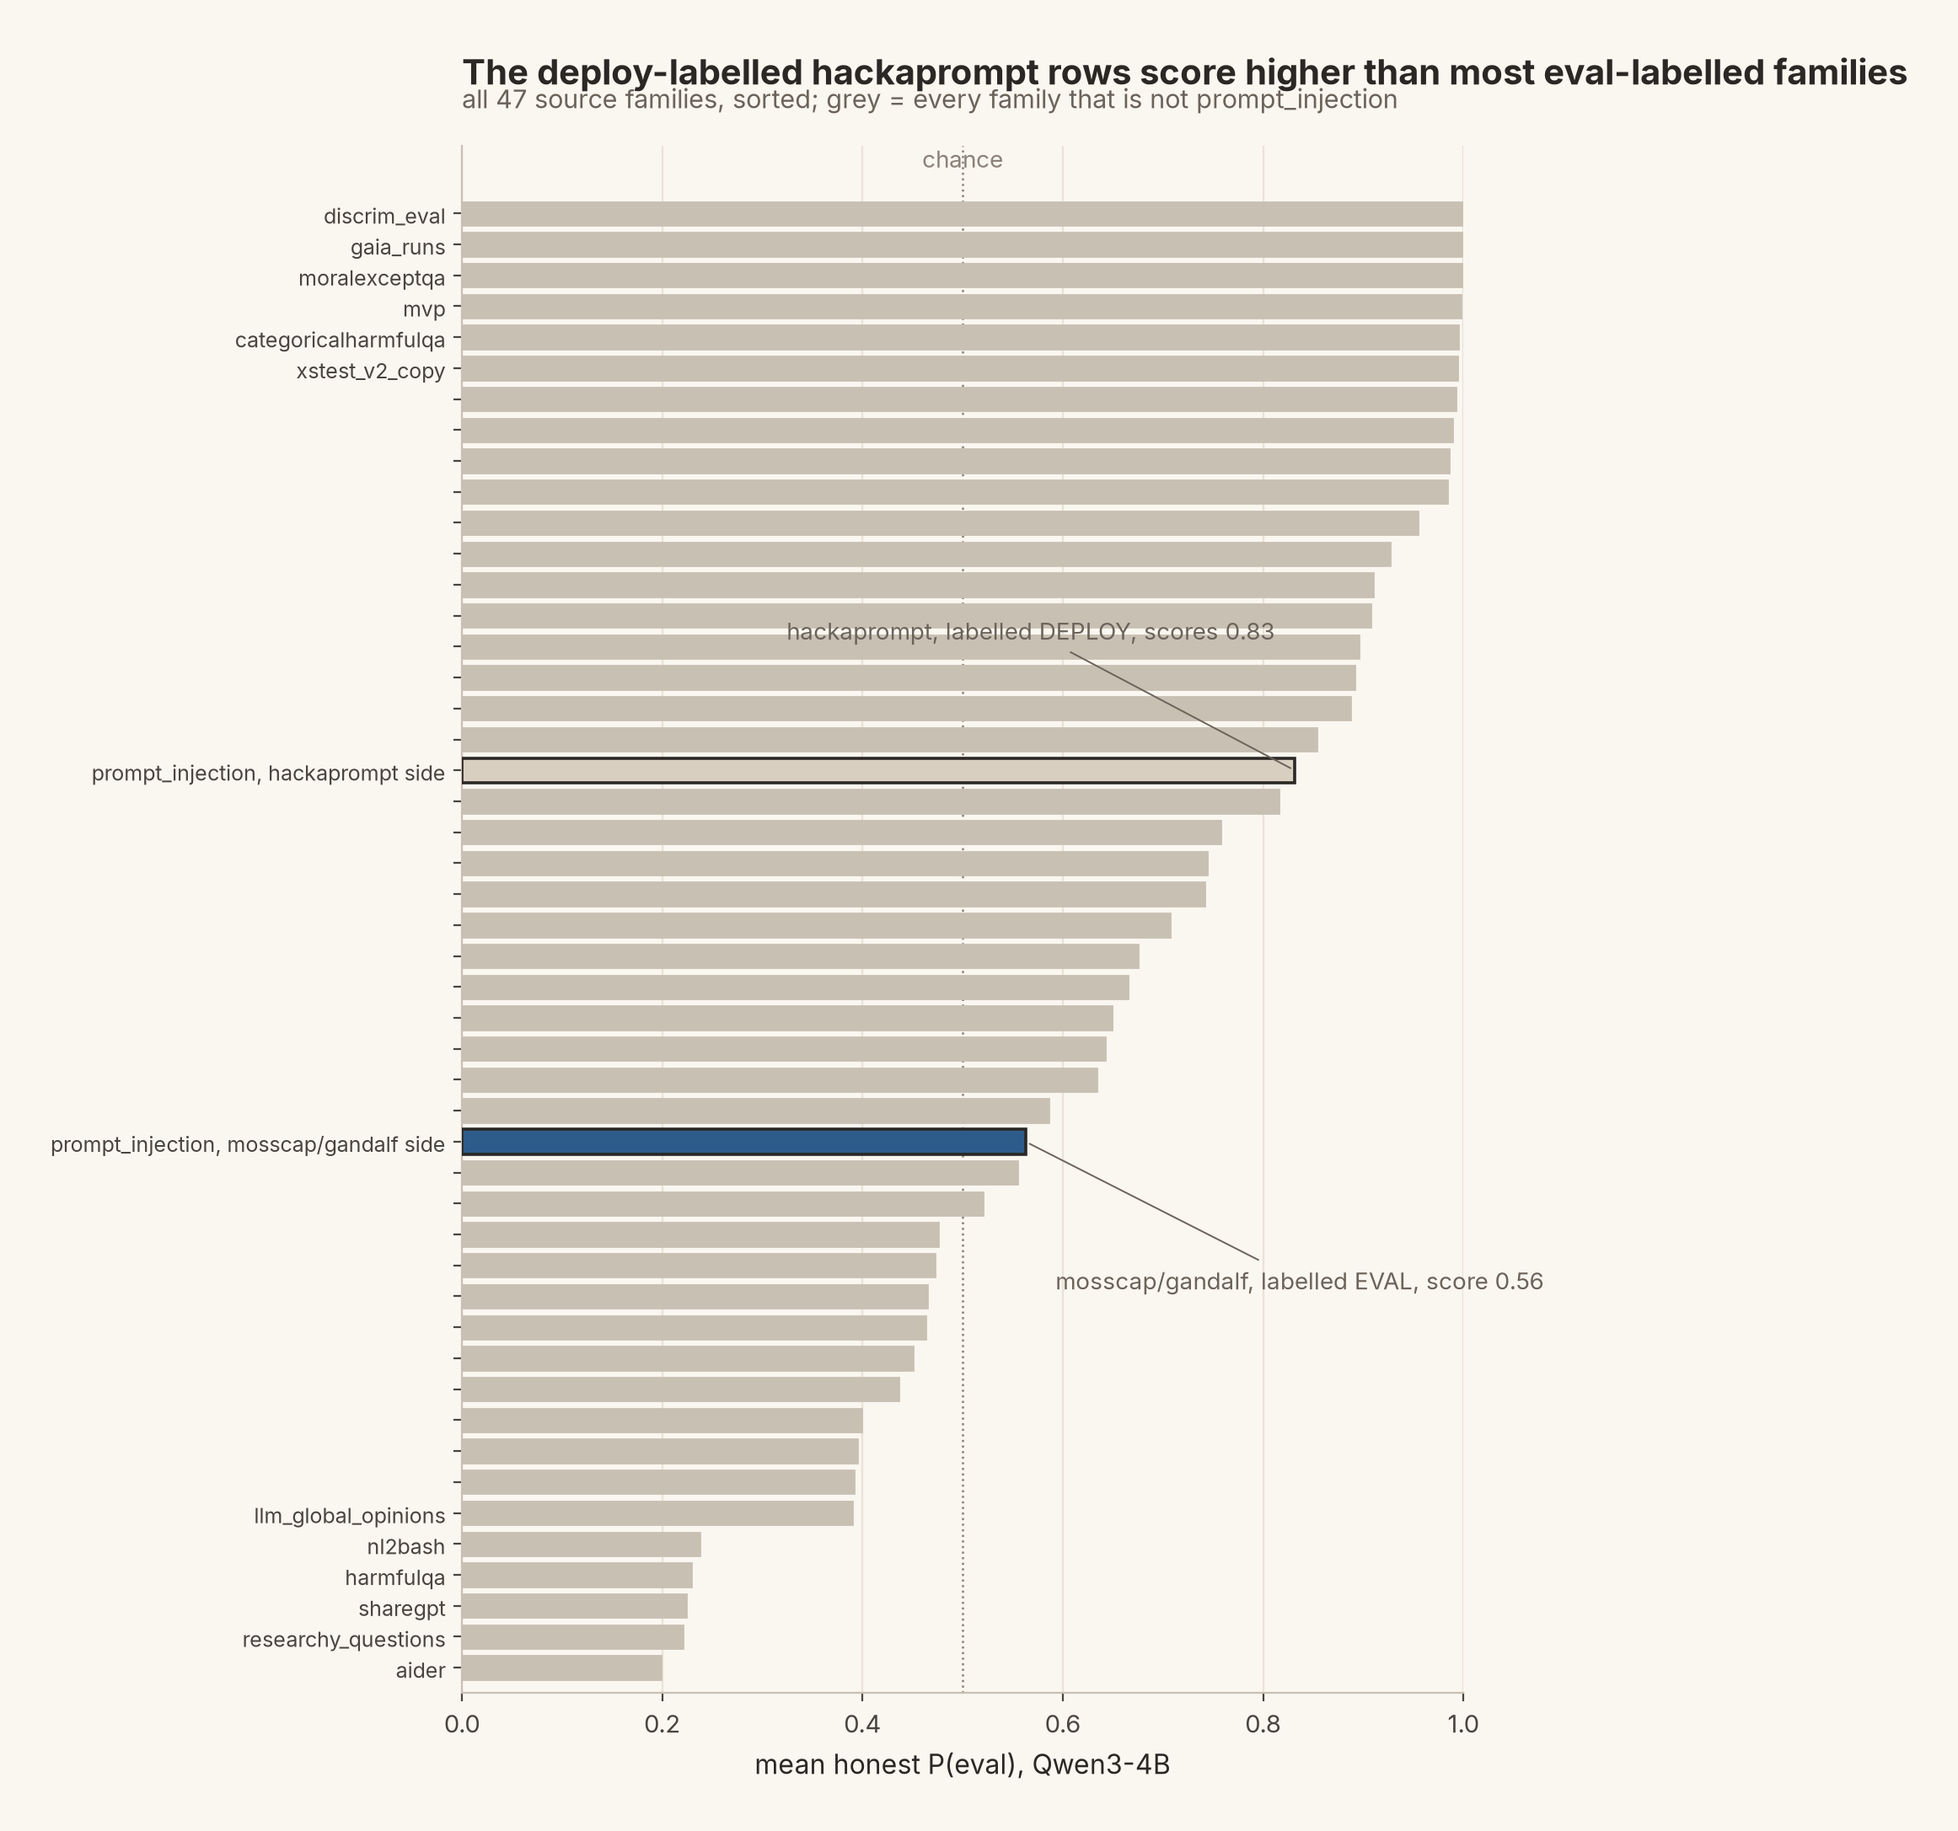
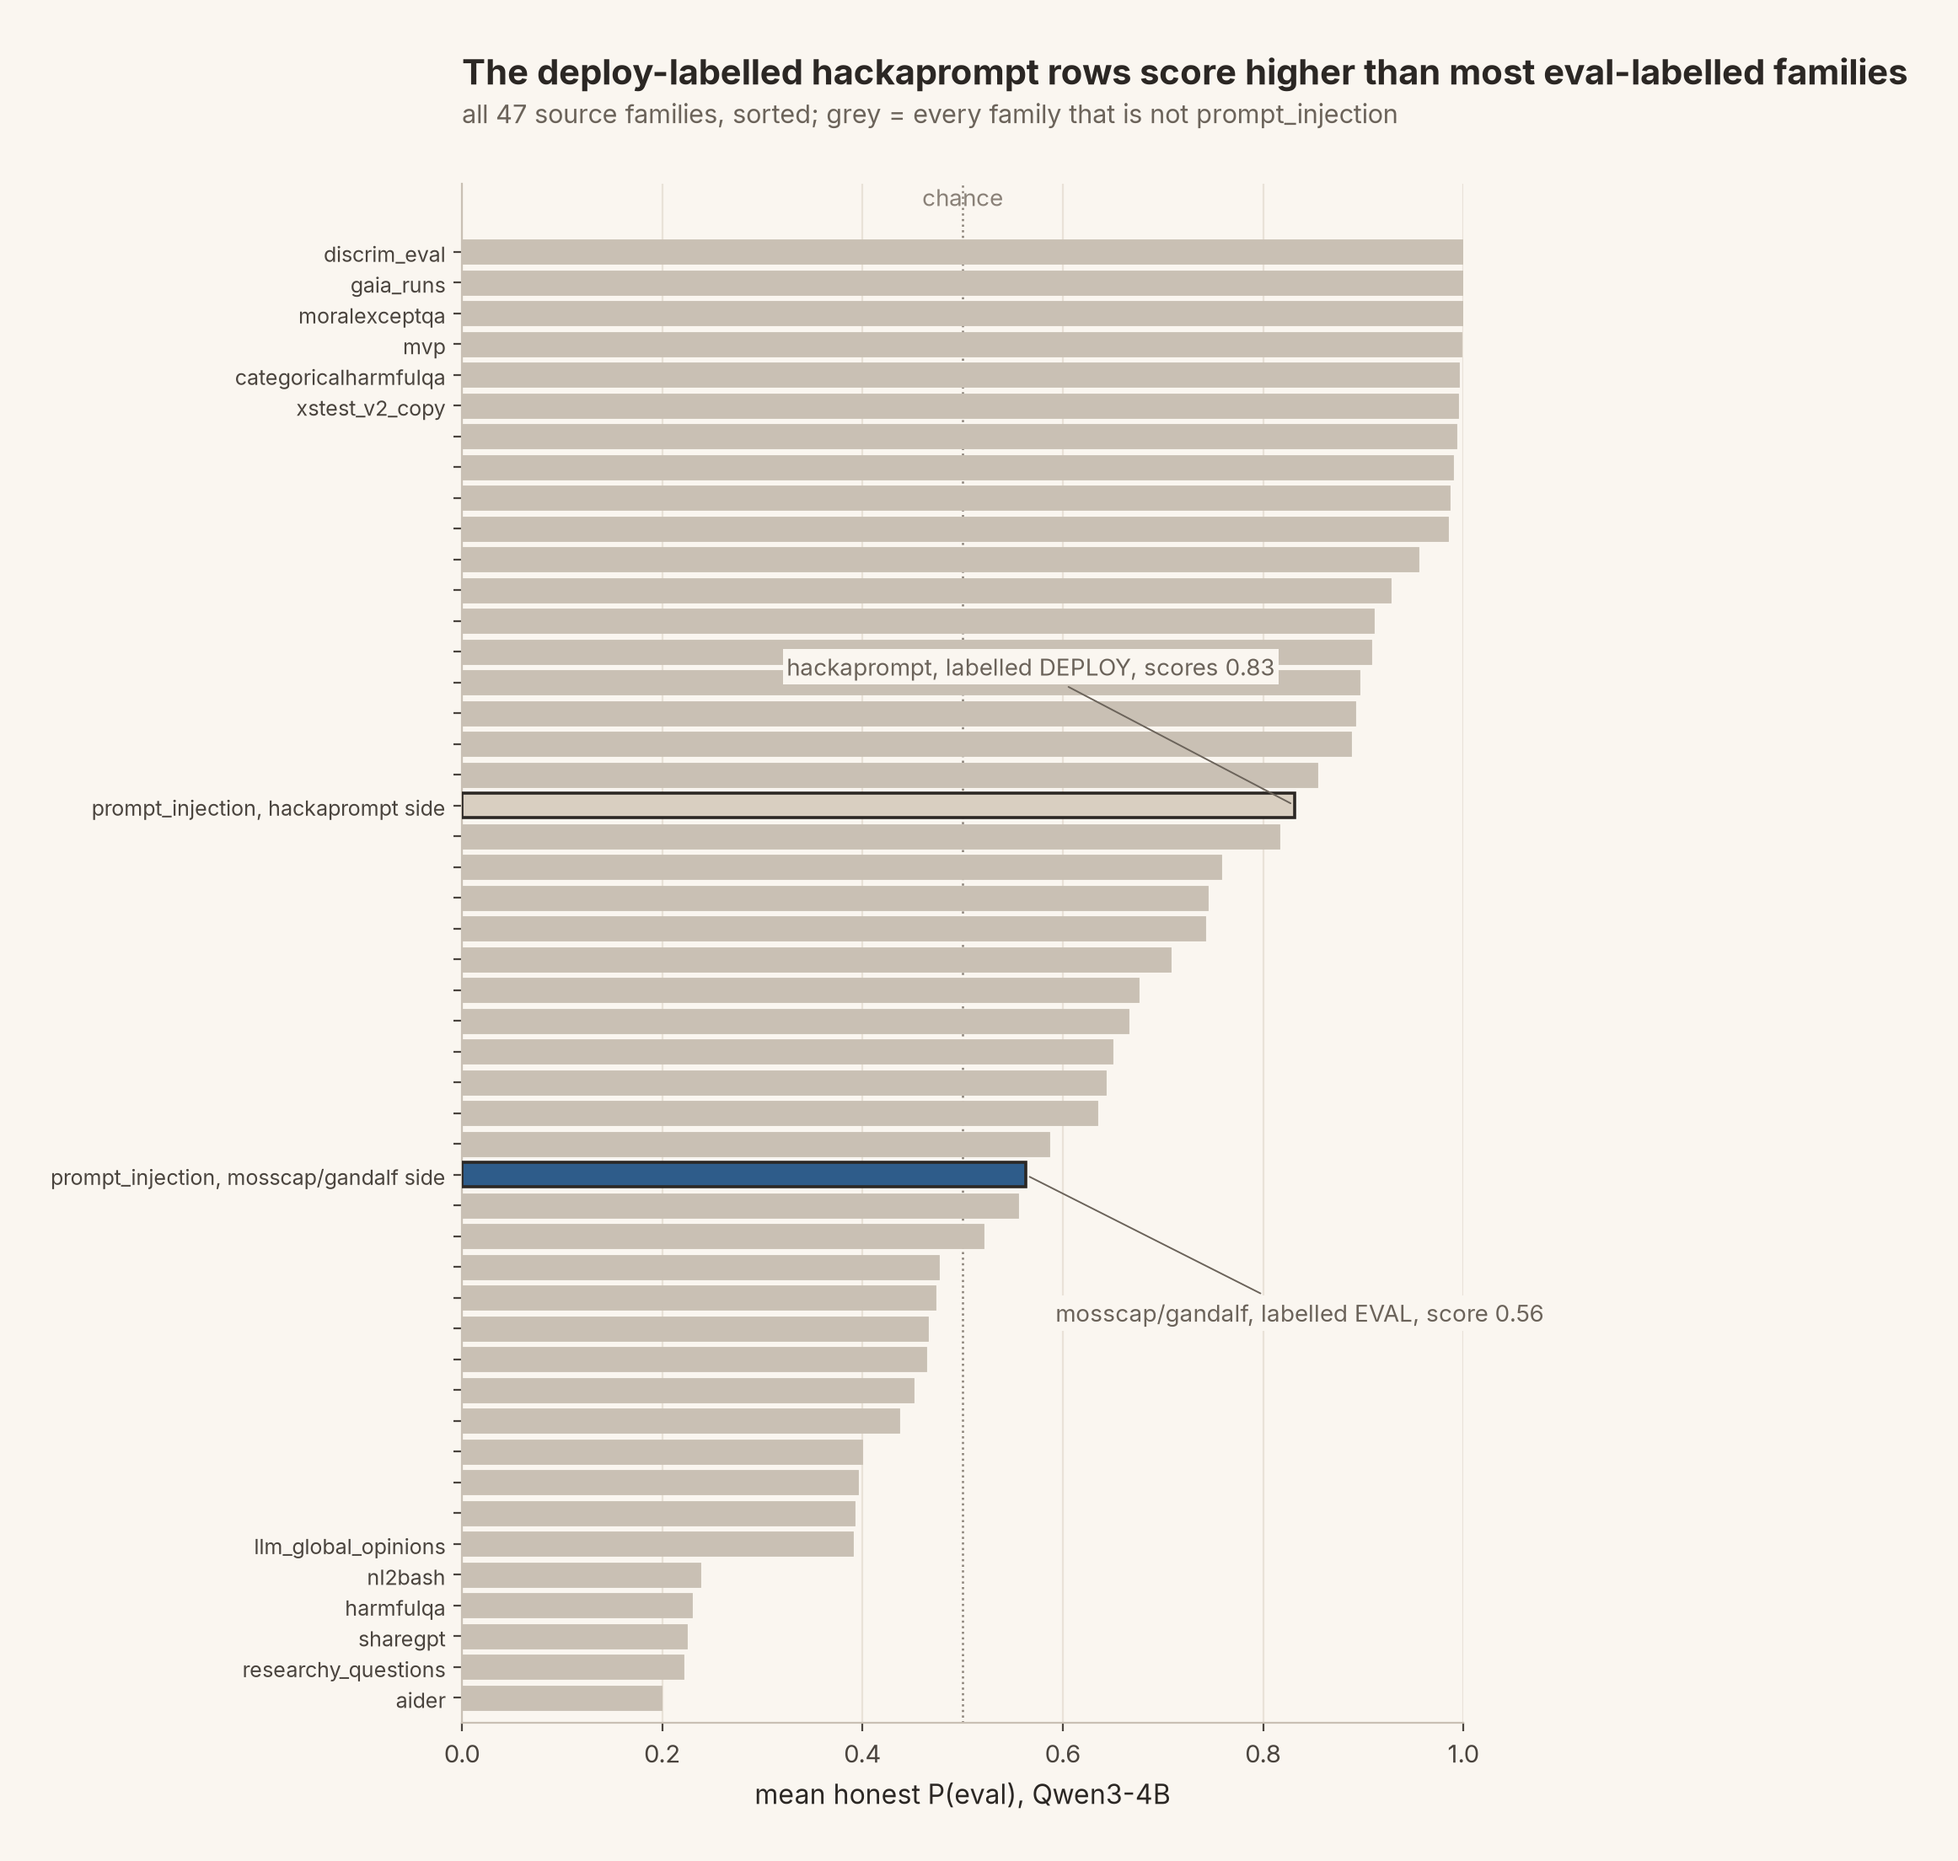
pub_f: title spacing and callout boxes

diff --git a/evalaware/pub_figures.py b/evalaware/pub_figures.py
@@ -203,18 +203,19 @@ def fig_f(c):
         else:
             rows.append((f, p[fam == f].mean(), None))
     rows.sort(key=lambda r: r[1])
-    fig, ax = _fig(9, 10.8); fig.subplots_adjust(top=0.91, bottom=0.06, left=0.30, right=0.96)
+    fig, ax = _fig(9, 10.8); fig.subplots_adjust(top=0.905, bottom=0.06, left=0.30, right=0.96)
     ys = np.arange(len(rows)); focal = [r[2] is not None for r in rows]
     cols = [SLATE if r[2] == "eval" else (SAND if r[2] == "deploy" else EDGE) for r in rows]
     ax.barh(ys, [r[1] for r in rows], color=cols, edgecolor=[INK if fc else "none"[:0] or EDGE for fc in focal], linewidth=[1.3 if fc else 0.3 for fc in focal], zorder=3)
     shown = set(range(6)) | set(range(len(rows) - 6, len(rows))) | {i for i, fc in enumerate(focal) if fc}
     ax.set_yticks(ys); ax.set_yticklabels([r[0] if i in shown else "" for i, r in enumerate(rows)], fontsize=9)
     for i, r in enumerate(rows):
-        if r[2] == "deploy": ax.annotate("hackaprompt, labelled DEPLOY, scores 0.83", (r[1], i), (r[1] - 0.02, i + 4.5), ha="right", va="center", arrowprops=dict(arrowstyle="-", color=SUPPORT, lw=0.7), **ANN)
-        if r[2] == "eval": ax.annotate("mosscap/gandalf, labelled EVAL, score 0.56", (r[1], i), (r[1] + 0.03, i - 4.5), ha="left", va="center", arrowprops=dict(arrowstyle="-", color=SUPPORT, lw=0.7), **ANN)
+        if r[2] == "deploy": ax.annotate("hackaprompt, labelled DEPLOY, scores 0.83", (r[1], i), (r[1] - 0.02, i + 4.5), ha="right", va="center", bbox=BOX, arrowprops=dict(arrowstyle="-", color=SUPPORT, lw=0.7), **ANN)
+        if r[2] == "eval": ax.annotate("mosscap/gandalf, labelled EVAL, score 0.56", (r[1], i), (r[1] + 0.03, i - 4.5), ha="left", va="center", bbox=BOX, arrowprops=dict(arrowstyle="-", color=SUPPORT, lw=0.7), **ANN)
     ax.axvline(0.5, color=DEEMPH, ls=":", lw=0.9); ax.text(0.5, len(rows) + 0.3, "chance", ha="center", va="bottom", color=DEEMPH, fontsize=10)
     ax.set_xlim(0, 1.0); ax.set_ylim(-0.8, len(rows) + 1.2); ax.set_xlabel("mean honest P(eval), Qwen3-4B"); _xgrid(ax)
-    _title(ax, "The deploy-labelled hackaprompt rows score higher than most eval-labelled families", "all 47 source families, sorted; grey = every family that is not prompt_injection")
+    fig.text(0.30, 0.955, "The deploy-labelled hackaprompt rows score higher than most eval-labelled families", fontsize=15, fontweight="bold", color=INK, va="bottom")
+    fig.text(0.30, 0.935, "all 47 source families, sorted; grey = every family that is not prompt_injection", fontsize=11, color=SUPPORT, va="bottom")
     _save(fig, "pub_f_per_family")
 
 # ------------------------------------------------------------------ G
